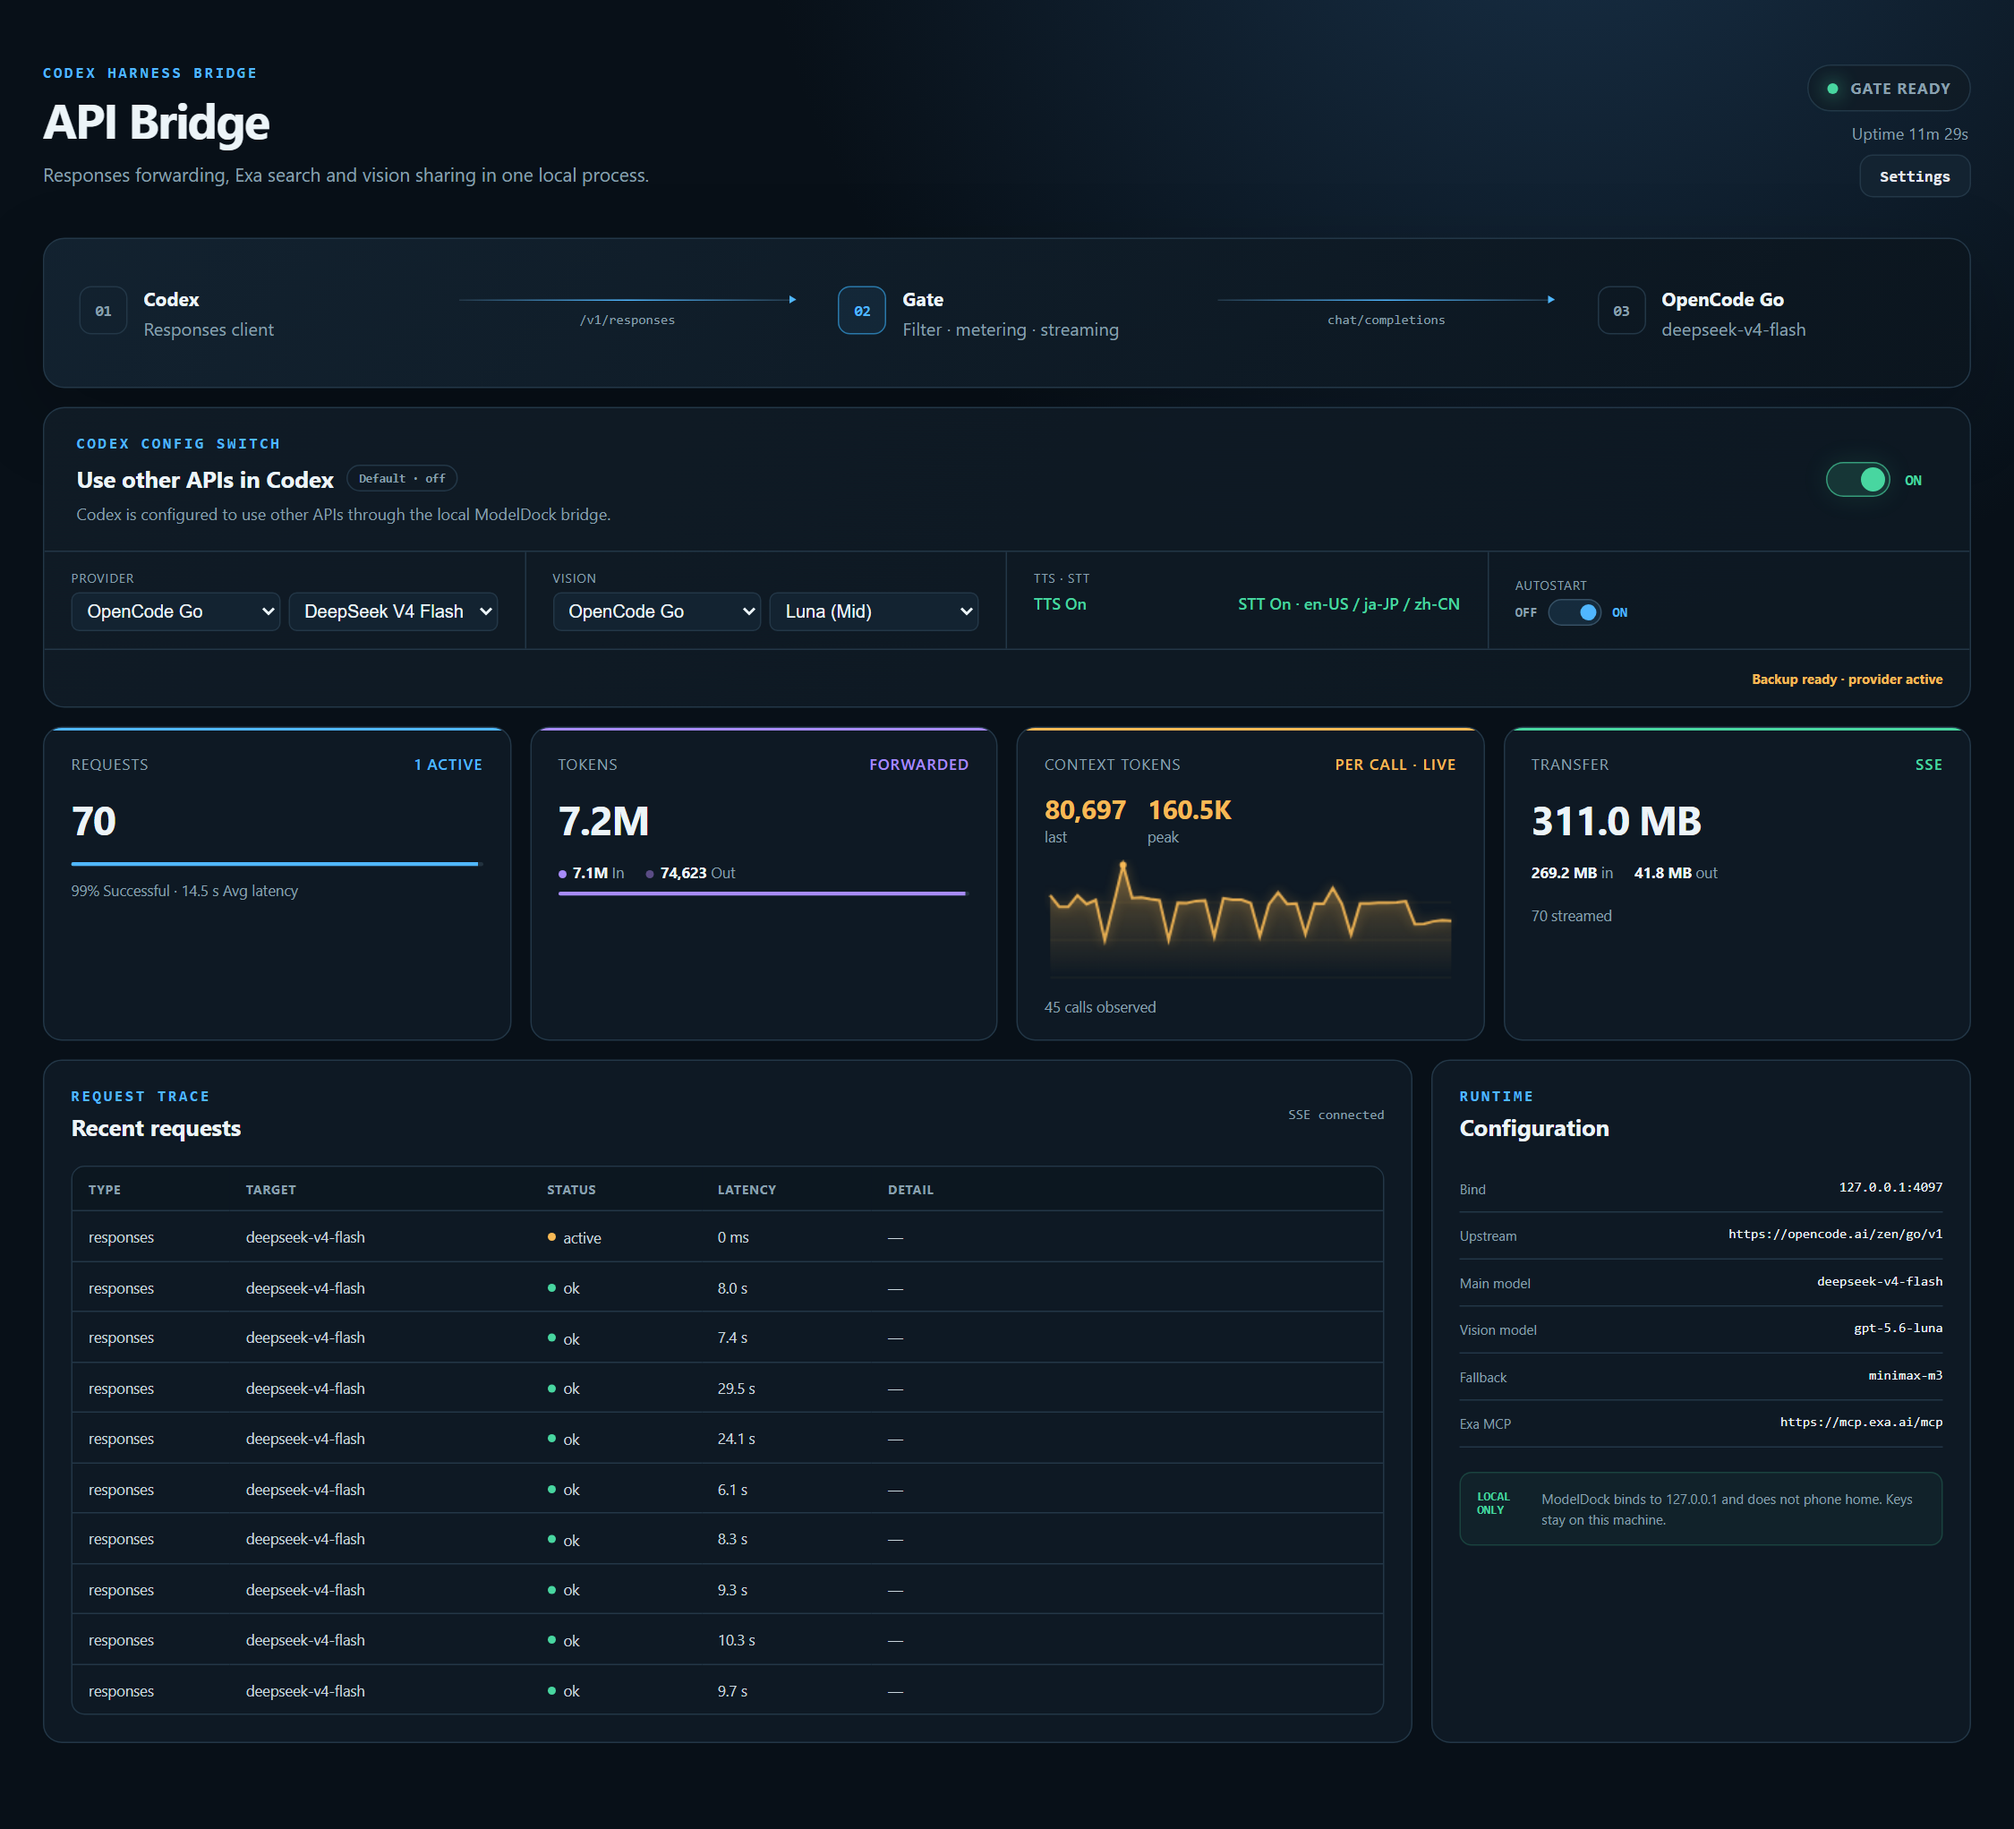
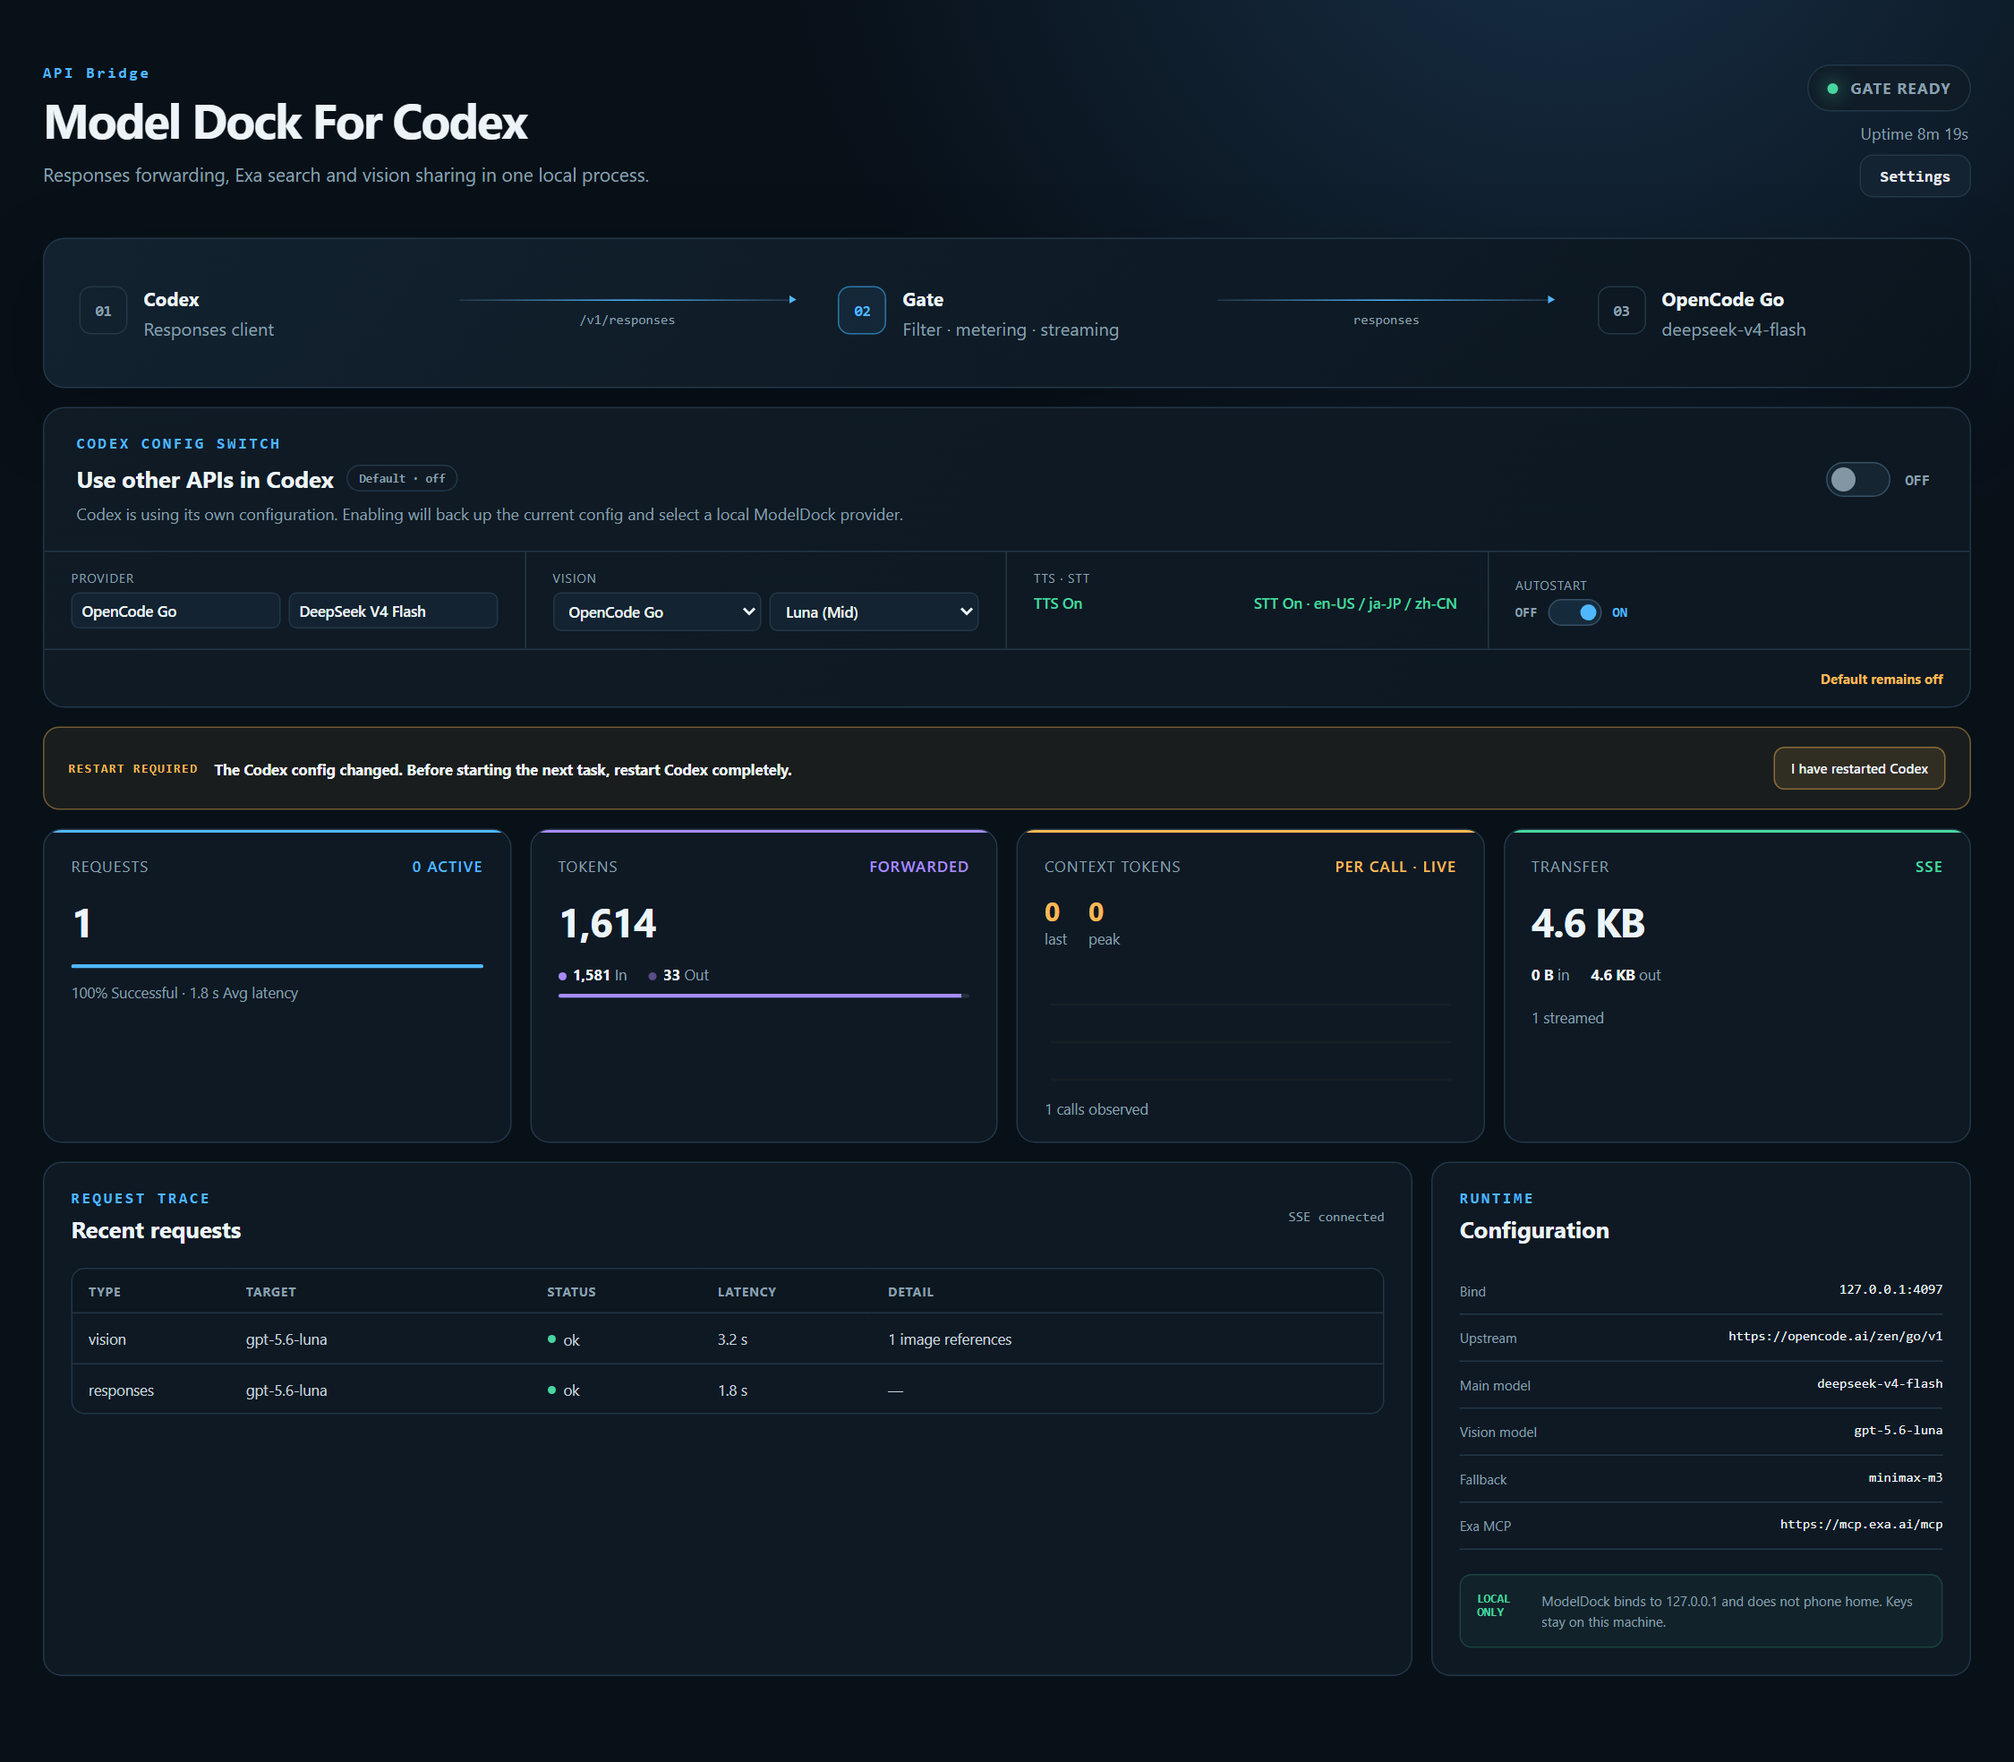
ui: fix invalid 'font: N N inherit' shorthands dropping to browser defaults
'font: 600 11px inherit' is an invalid shorthand (CSS-wide keywords cannot be
component values), so browsers silently dropped the whole declaration:
.model-static rendered at the inherited 16px/400, selects fell to the UA's
13.3px Arial, while .speech-status (longhand font-size) stayed 11px/600 -
the mismatched sizes across Provider / Vision / TTS on the switch row.
Expanded to longhands; all six elements now compute to 11px/600 Inter.
Fresh dashboard screenshot included.

diff --git a/public/styles.css b/public/styles.css
@@ -61,10 +61,10 @@ h2 { margin: 0; font-size: 17px; }
 .control-defaults > div > strong { font-size: 11px; }
 .select-pair { display: grid; grid-template-columns: 1fr 1fr; gap: 6px; }
 .select-pair .model-select { width: 100%; min-width: 0; }
-.model-select { max-width: 100%; border: 1px solid var(--line); border-radius: 6px; padding: 5px 7px; color: var(--text); background: var(--panel-2); font: 600 11px inherit; }
+.model-select { max-width: 100%; border: 1px solid var(--line); border-radius: 6px; padding: 5px 7px; color: var(--text); background: var(--panel-2); font-weight: 600; font-size: 11px; font-family: inherit; }
 .model-select:focus-visible { outline: 2px solid var(--blue); outline-offset: 2px; }
 .model-select:disabled { opacity: .55; cursor: wait; }
-.model-static { display: inline-block; max-width: 100%; border: 1px solid var(--line); border-radius: 6px; padding: 5px 7px; color: var(--text); background: var(--panel-2); font: 600 11px inherit; overflow: hidden; text-overflow: ellipsis; white-space: nowrap; }
+.model-static { display: inline-block; max-width: 100%; border: 1px solid var(--line); border-radius: 6px; padding: 5px 7px; color: var(--text); background: var(--panel-2); font-weight: 600; font-size: 11px; font-family: inherit; overflow: hidden; text-overflow: ellipsis; white-space: nowrap; }
 .model-static.busy { opacity: .55; }
 .debug-default { display: flex; flex-direction: column; justify-content: center; }
 .mode-toggle { display: flex; align-items: center; gap: 8px; width: max-content; cursor: pointer; user-select: none; }
@@ -86,7 +86,7 @@ h2 { margin: 0; font-size: 17px; }
 .restart-banner div { display: flex; align-items: center; gap: 12px; }
 .restart-banner span { color: var(--amber); font: 700 9px ui-monospace, monospace; letter-spacing: .12em; }
 .restart-banner strong { font-size: 11px; }
-.restart-banner button { border: 1px solid rgba(247,185,85,.45); border-radius: 8px; padding: 8px 12px; color: var(--text); background: rgba(247,185,85,.1); cursor: pointer; font: 600 10px inherit; }
+.restart-banner button { border: 1px solid rgba(247,185,85,.45); border-radius: 8px; padding: 8px 12px; color: var(--text); background: rgba(247,185,85,.1); cursor: pointer; font-weight: 600; font-size: 10px; font-family: inherit; }
 .restart-banner button:hover { background: rgba(247,185,85,.18); }
 
 .metric-grid { display: grid; grid-template-columns: repeat(4, 1fr); gap: 14px; margin-top: 14px; }
